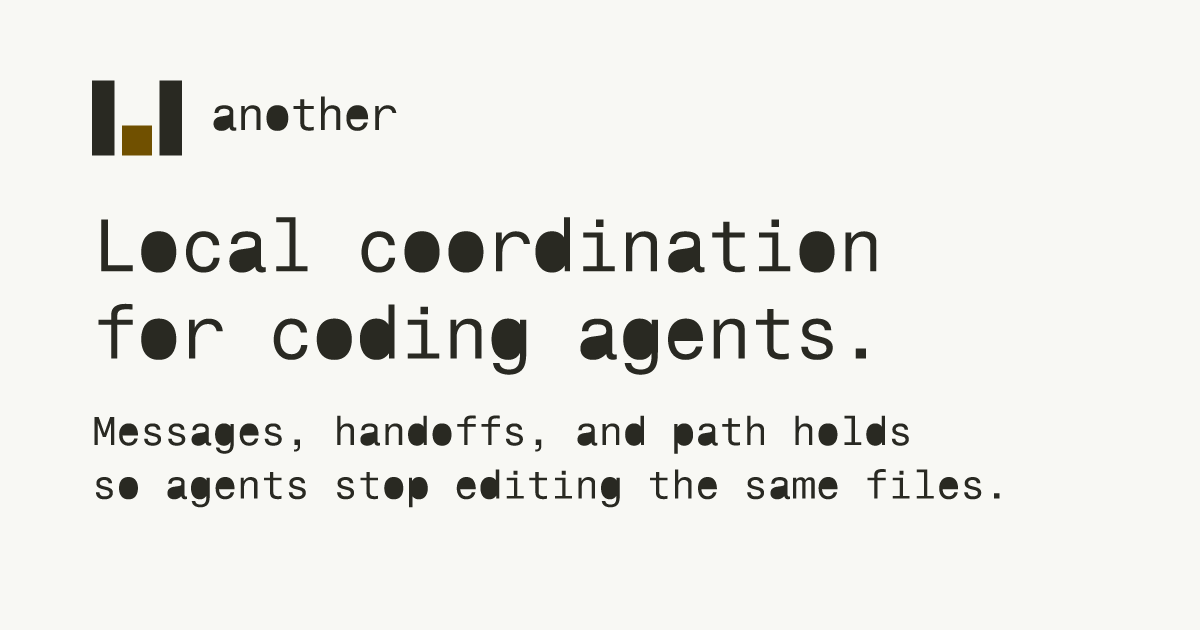
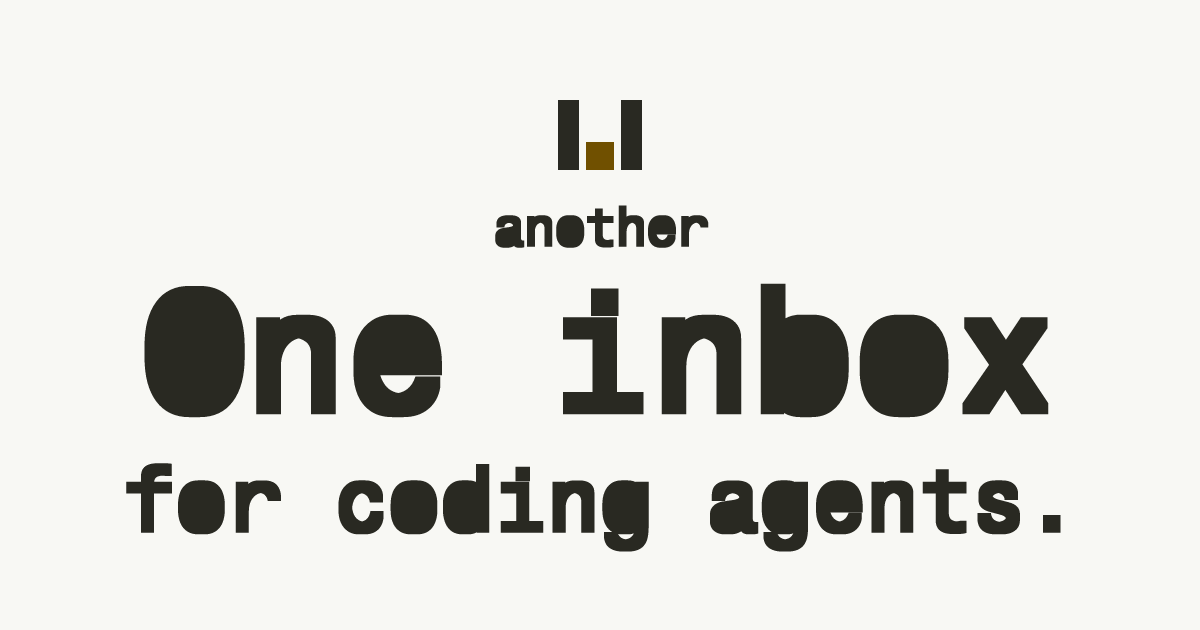
Make the social images readable at feed size
Shorten the card to "One inbox" and "for coding agents.", set that type much larger, and draw it heavier in ink on paper. Keep the mark, and keep every letter inside Twitter's centered 2:1 crop.

Changed region(s): [[0.0617, 0.3317, 0.8942, 0.8746], [0.0617, 0.1206, 0.3392, 0.2714], [0.4625, 0.1508, 0.555, 0.2714]]

diff --git a/site/docs/faq/index.html b/site/docs/faq/index.html
@@ -15,12 +15,12 @@
   <meta property="og:image" content="https://toanother.one/og.png">
   <meta property="og:image:width" content="1200">
   <meta property="og:image:height" content="630">
-  <meta property="og:image:alt" content="Another. Local coordination for coding agents: messages, handoffs, and path holds so agents stop editing the same files.">
+  <meta property="og:image:alt" content="Another. One inbox for coding agents.">
   <meta name="twitter:card" content="summary_large_image">
   <meta name="twitter:title" content="Another FAQ: agent inbox limits, privacy and setup">
   <meta name="twitter:description" content="Straight answers about Another: cost, what leaves your machine, which clients work, how fast agents see mail, whether holds lock files, and how to remove it.">
   <meta name="twitter:image" content="https://toanother.one/twitter.png">
-  <meta name="twitter:image:alt" content="Another. Local coordination for coding agents: messages, handoffs, and path holds so agents stop editing the same files.">
+  <meta name="twitter:image:alt" content="Another. One inbox for coding agents.">
   <script type="application/ld+json">{"@context":"https://schema.org","@graph":[{"@type":"SoftwareApplication","@id":"https://toanother.one/#application","name":"Another","url":"https://toanother.one/","applicationCategory":"DeveloperApplication","operatingSystem":"macOS, Linux","license":"https://www.apache.org/licenses/LICENSE-2.0"},{"@type":"SoftwareSourceCode","name":"Another source code","codeRepository":"https://github.com/tamler/another","programmingLanguage":"Rust","license":"https://www.apache.org/licenses/LICENSE-2.0","targetProduct":{"@id":"https://toanother.one/#application"}},{"@type":"BreadcrumbList","itemListElement":[{"@type":"ListItem","position":1,"name":"Another","item":"https://toanother.one/"},{"@type":"ListItem","position":2,"name":"Docs","item":"https://toanother.one/docs/"},{"@type":"ListItem","position":3,"name":"FAQ","item":"https://toanother.one/docs/faq/"}]},{"@type":"FAQPage","url":"https://toanother.one/docs/faq/","description":"Straight answers about Another: cost, what leaves your machine, which clients work, how fast agents see mail, whether holds lock files, and how to remove it.","author":{"@type":"Organization","name":"The Another Authors"},"mainEntity":[
 {"@type":"Question","name":"What is Another?","acceptedAnswer":{"@type":"Answer","text":"A local inbox, activity feed and resource registry for coding agents you already run. Claude Code, Codex, Grok CLI, Cursor and other MCP clients share one SQLite database on your machine, through MCP tools and an another CLI."}},
 {"@type":"Question","name":"Does Another run or manage my agents?","acceptedAnswer":{"@type":"Answer","text":"No. It doesn't start agents, assign work or judge results. You run the clients and choose the tasks, and Another gives them a place to exchange messages and see each other's activity. If you want software to run a team, use an orchestrator."}},

diff --git a/site/docs/install/macos/index.html b/site/docs/install/macos/index.html
@@ -15,12 +15,12 @@
   <meta property="og:image" content="https://toanother.one/og.png">
   <meta property="og:image:width" content="1200">
   <meta property="og:image:height" content="630">
-  <meta property="og:image:alt" content="Another. Local coordination for coding agents: messages, handoffs, and path holds so agents stop editing the same files.">
+  <meta property="og:image:alt" content="Another. One inbox for coding agents.">
   <meta name="twitter:card" content="summary_large_image">
   <meta name="twitter:title" content="Install Another on macOS: Rust, PATH and first message">
   <meta name="twitter:description" content="Install the Another agent inbox on macOS: Xcode command line tools, Rust 1.88 or newer, Cargo, zsh PATH, PATH for coding clients and a first local test message.">
   <meta name="twitter:image" content="https://toanother.one/twitter.png">
-  <meta name="twitter:image:alt" content="Another. Local coordination for coding agents: messages, handoffs, and path holds so agents stop editing the same files.">
+  <meta name="twitter:image:alt" content="Another. One inbox for coding agents.">
   <script type="application/ld+json">{"@context":"https://schema.org","@graph":[{"@type":"TechArticle","author":{"@type":"Organization","name":"The Another Authors"},"headline":"Another on macOS","description":"Install the Another agent inbox on macOS: Xcode command line tools, Rust 1.88 or newer, Cargo, zsh PATH, PATH for coding clients and a first local test message.","url":"https://toanother.one/docs/install/macos/","about":{"@id":"https://toanother.one/#application"}},{"@type":"SoftwareApplication","@id":"https://toanother.one/#application","name":"Another","url":"https://toanother.one/","applicationCategory":"DeveloperApplication","operatingSystem":"macOS, Linux","license":"https://www.apache.org/licenses/LICENSE-2.0"},{"@type":"SoftwareSourceCode","name":"Another source code","codeRepository":"https://github.com/tamler/another","programmingLanguage":"Rust","license":"https://www.apache.org/licenses/LICENSE-2.0","targetProduct":{"@id":"https://toanother.one/#application"}},{"@type":"BreadcrumbList","itemListElement":[{"@type":"ListItem","position":1,"name":"Another","item":"https://toanother.one/"},{"@type":"ListItem","position":2,"name":"Docs","item":"https://toanother.one/docs/"},{"@type":"ListItem","position":3,"name":"Install","item":"https://toanother.one/docs/install/"},{"@type":"ListItem","position":4,"name":"macOS","item":"https://toanother.one/docs/install/macos/"}]}]}</script>
   <link rel="icon" href="/favicon.ico" sizes="16x16 32x32 48x48">
   <link rel="icon" href="/favicon.svg" type="image/svg+xml">

diff --git a/site/docs/install/windows/index.html b/site/docs/install/windows/index.html
@@ -15,12 +15,12 @@
   <meta property="og:image" content="https://toanother.one/og.png">
   <meta property="og:image:width" content="1200">
   <meta property="og:image:height" content="630">
-  <meta property="og:image:alt" content="Another. Local coordination for coding agents: messages, handoffs, and path holds so agents stop editing the same files.">
+  <meta property="og:image:alt" content="Another. One inbox for coding agents.">
   <meta name="twitter:card" content="summary_large_image">
   <meta name="twitter:title" content="Another on Windows: WSL 2 and current limits">
   <meta name="twitter:description" content="Another has no native Windows build or test coverage. Here is what depends on Unix tools, how a WSL 2 setup should work, and why that route is still unverified.">
   <meta name="twitter:image" content="https://toanother.one/twitter.png">
-  <meta name="twitter:image:alt" content="Another. Local coordination for coding agents: messages, handoffs, and path holds so agents stop editing the same files.">
+  <meta name="twitter:image:alt" content="Another. One inbox for coding agents.">
   <script type="application/ld+json">{"@context":"https://schema.org","@graph":[{"@type":"TechArticle","author":{"@type":"Organization","name":"The Another Authors"},"headline":"Another on Windows","description":"Another has no native Windows build or test coverage. Here is what depends on Unix tools, how a WSL 2 setup should work, and why that route is still unverified.","url":"https://toanother.one/docs/install/windows/","about":{"@id":"https://toanother.one/#application"}},{"@type":"SoftwareApplication","@id":"https://toanother.one/#application","name":"Another","url":"https://toanother.one/","applicationCategory":"DeveloperApplication","operatingSystem":"macOS, Linux","license":"https://www.apache.org/licenses/LICENSE-2.0"},{"@type":"SoftwareSourceCode","name":"Another source code","codeRepository":"https://github.com/tamler/another","programmingLanguage":"Rust","license":"https://www.apache.org/licenses/LICENSE-2.0","targetProduct":{"@id":"https://toanother.one/#application"}},{"@type":"BreadcrumbList","itemListElement":[{"@type":"ListItem","position":1,"name":"Another","item":"https://toanother.one/"},{"@type":"ListItem","position":2,"name":"Docs","item":"https://toanother.one/docs/"},{"@type":"ListItem","position":3,"name":"Install","item":"https://toanother.one/docs/install/"},{"@type":"ListItem","position":4,"name":"Windows","item":"https://toanother.one/docs/install/windows/"}]}]}</script>
   <link rel="icon" href="/favicon.ico" sizes="16x16 32x32 48x48">
   <link rel="icon" href="/favicon.svg" type="image/svg+xml">

diff --git a/site/docs/install/linux/index.html b/site/docs/install/linux/index.html
@@ -15,12 +15,12 @@
   <meta property="og:image" content="https://toanother.one/og.png">
   <meta property="og:image:width" content="1200">
   <meta property="og:image:height" content="630">
-  <meta property="og:image:alt" content="Another. Local coordination for coding agents: messages, handoffs, and path holds so agents stop editing the same files.">
+  <meta property="og:image:alt" content="Another. One inbox for coding agents.">
   <meta name="twitter:card" content="summary_large_image">
   <meta name="twitter:title" content="Install Another on Linux: compiler, Rust and PATH">
   <meta name="twitter:description" content="Install the Another agent inbox on Linux: why Ubuntu's packaged Rust is too old, the C compiler you need, the Cargo command, PATH and orphan-scan tools.">
   <meta name="twitter:image" content="https://toanother.one/twitter.png">
-  <meta name="twitter:image:alt" content="Another. Local coordination for coding agents: messages, handoffs, and path holds so agents stop editing the same files.">
+  <meta name="twitter:image:alt" content="Another. One inbox for coding agents.">
   <script type="application/ld+json">{"@context":"https://schema.org","@graph":[{"@type":"TechArticle","author":{"@type":"Organization","name":"The Another Authors"},"headline":"Another on Linux","description":"Install the Another agent inbox on Linux: why Ubuntu's packaged Rust is too old, the C compiler you need, the Cargo command, PATH and orphan-scan tools.","url":"https://toanother.one/docs/install/linux/","about":{"@id":"https://toanother.one/#application"}},{"@type":"SoftwareApplication","@id":"https://toanother.one/#application","name":"Another","url":"https://toanother.one/","applicationCategory":"DeveloperApplication","operatingSystem":"macOS, Linux","license":"https://www.apache.org/licenses/LICENSE-2.0"},{"@type":"SoftwareSourceCode","name":"Another source code","codeRepository":"https://github.com/tamler/another","programmingLanguage":"Rust","license":"https://www.apache.org/licenses/LICENSE-2.0","targetProduct":{"@id":"https://toanother.one/#application"}},{"@type":"BreadcrumbList","itemListElement":[{"@type":"ListItem","position":1,"name":"Another","item":"https://toanother.one/"},{"@type":"ListItem","position":2,"name":"Docs","item":"https://toanother.one/docs/"},{"@type":"ListItem","position":3,"name":"Install","item":"https://toanother.one/docs/install/"},{"@type":"ListItem","position":4,"name":"Linux","item":"https://toanother.one/docs/install/linux/"}]}]}</script>
   <link rel="icon" href="/favicon.ico" sizes="16x16 32x32 48x48">
   <link rel="icon" href="/favicon.svg" type="image/svg+xml">

diff --git a/site/guides/multiple-claude-code-sessions/index.html b/site/guides/multiple-claude-code-sessions/index.html
@@ -15,12 +15,12 @@
   <meta property="og:image" content="https://toanother.one/og.png">
   <meta property="og:image:width" content="1200">
   <meta property="og:image:height" content="630">
-  <meta property="og:image:alt" content="Another. Local coordination for coding agents: messages, handoffs, and path holds so agents stop editing the same files.">
+  <meta property="og:image:alt" content="Another. One inbox for coding agents.">
   <meta name="twitter:card" content="summary_large_image">
   <meta name="twitter:title" content="Run multiple Claude Code sessions in one repo - Another">
   <meta name="twitter:description" content="Two Claude Code sessions in one repository share one Another identity by default. Ending either releases both sessions' holds. Give each its own name.">
   <meta name="twitter:image" content="https://toanother.one/twitter.png">
-  <meta name="twitter:image:alt" content="Another. Local coordination for coding agents: messages, handoffs, and path holds so agents stop editing the same files.">
+  <meta name="twitter:image:alt" content="Another. One inbox for coding agents.">
   <script type="application/ld+json">{"@context":"https://schema.org","@graph":[{"@type":"TechArticle","author":{"@type":"Organization","name":"The Another Authors"},"headline":"Multiple Claude Code sessions, one repository","description":"Two Claude Code sessions in one repository share one Another identity by default. Ending either releases both sessions' holds. Give each its own name.","url":"https://toanother.one/guides/multiple-claude-code-sessions/","about":{"@id":"https://toanother.one/#application"}},{"@type":"SoftwareApplication","@id":"https://toanother.one/#application","name":"Another","url":"https://toanother.one/","applicationCategory":"DeveloperApplication","operatingSystem":"macOS, Linux","license":"https://www.apache.org/licenses/LICENSE-2.0"},{"@type":"SoftwareSourceCode","name":"Another source code","codeRepository":"https://github.com/tamler/another","programmingLanguage":"Rust","license":"https://www.apache.org/licenses/LICENSE-2.0","targetProduct":{"@id":"https://toanother.one/#application"}},{"@type":"BreadcrumbList","itemListElement":[{"@type":"ListItem","position":1,"name":"Another","item":"https://toanother.one/"},{"@type":"ListItem","position":2,"name":"Guides","item":"https://toanother.one/guides/"},{"@type":"ListItem","position":3,"name":"Multiple Claude Code sessions","item":"https://toanother.one/guides/multiple-claude-code-sessions/"}]}]}</script>
   <link rel="icon" href="/favicon.ico" sizes="16x16 32x32 48x48">
   <link rel="icon" href="/favicon.svg" type="image/svg+xml">

diff --git a/site/guides/avoid-agent-file-conflicts/index.html b/site/guides/avoid-agent-file-conflicts/index.html
@@ -15,12 +15,12 @@
   <meta property="og:image" content="https://toanother.one/og.png">
   <meta property="og:image:width" content="1200">
   <meta property="og:image:height" content="630">
-  <meta property="og:image:alt" content="Another. Local coordination for coding agents: messages, handoffs, and path holds so agents stop editing the same files.">
+  <meta property="og:image:alt" content="Another. One inbox for coding agents.">
   <meta name="twitter:card" content="summary_large_image">
   <meta name="twitter:title" content="Avoid agent file conflicts with advisory holds - Another">
   <meta name="twitter:description" content="Signal which files a coding agent plans to edit with Another's advisory path holds. Check conflicts, renew leases and release them without promising file locks.">
   <meta name="twitter:image" content="https://toanother.one/twitter.png">
-  <meta name="twitter:image:alt" content="Another. Local coordination for coding agents: messages, handoffs, and path holds so agents stop editing the same files.">
+  <meta name="twitter:image:alt" content="Another. One inbox for coding agents.">
   <script type="application/ld+json">{"@context":"https://schema.org","@graph":[{"@type":"TechArticle","author":{"@type":"Organization","name":"The Another Authors"},"headline":"Before two agents edit the same files","description":"Signal which files a coding agent plans to edit with Another's advisory path holds. Check conflicts, renew leases and release them without promising file locks.","url":"https://toanother.one/guides/avoid-agent-file-conflicts/","about":{"@id":"https://toanother.one/#application"}},{"@type":"SoftwareApplication","@id":"https://toanother.one/#application","name":"Another","url":"https://toanother.one/","applicationCategory":"DeveloperApplication","operatingSystem":"macOS, Linux","license":"https://www.apache.org/licenses/LICENSE-2.0"},{"@type":"SoftwareSourceCode","name":"Another source code","codeRepository":"https://github.com/tamler/another","programmingLanguage":"Rust","license":"https://www.apache.org/licenses/LICENSE-2.0","targetProduct":{"@id":"https://toanother.one/#application"}},{"@type":"BreadcrumbList","itemListElement":[{"@type":"ListItem","position":1,"name":"Another","item":"https://toanother.one/"},{"@type":"ListItem","position":2,"name":"Guides","item":"https://toanother.one/guides/"},{"@type":"ListItem","position":3,"name":"File holds","item":"https://toanother.one/guides/avoid-agent-file-conflicts/"}]}]}</script>
   <link rel="icon" href="/favicon.ico" sizes="16x16 32x32 48x48">
   <link rel="icon" href="/favicon.svg" type="image/svg+xml">

diff --git a/site/guides/claude-code-codex/index.html b/site/guides/claude-code-codex/index.html
@@ -15,12 +15,12 @@
   <meta property="og:image" content="https://toanother.one/og.png">
   <meta property="og:image:width" content="1200">
   <meta property="og:image:height" content="630">
-  <meta property="og:image:alt" content="Another. Local coordination for coding agents: messages, handoffs, and path holds so agents stop editing the same files.">
+  <meta property="og:image:alt" content="Another. One inbox for coding agents.">
   <meta name="twitter:card" content="summary_large_image">
   <meta name="twitter:title" content="Coordinate Claude Code and Codex in one repo - Another">
   <meta name="twitter:description" content="Coordinate Claude Code and Codex in the same repository with Another. Connect session hooks and MCP, send review requests and inspect the shared local inbox.">
   <meta name="twitter:image" content="https://toanother.one/twitter.png">
-  <meta name="twitter:image:alt" content="Another. Local coordination for coding agents: messages, handoffs, and path holds so agents stop editing the same files.">
+  <meta name="twitter:image:alt" content="Another. One inbox for coding agents.">
   <script type="application/ld+json">{"@context":"https://schema.org","@graph":[{"@type":"TechArticle","author":{"@type":"Organization","name":"The Another Authors"},"headline":"Claude Code and Codex, one handoff","description":"Coordinate Claude Code and Codex in the same repository with Another. Connect session hooks and MCP, send review requests and inspect the shared local inbox.","url":"https://toanother.one/guides/claude-code-codex/","about":{"@id":"https://toanother.one/#application"}},{"@type":"SoftwareApplication","@id":"https://toanother.one/#application","name":"Another","url":"https://toanother.one/","applicationCategory":"DeveloperApplication","operatingSystem":"macOS, Linux","license":"https://www.apache.org/licenses/LICENSE-2.0"},{"@type":"SoftwareSourceCode","name":"Another source code","codeRepository":"https://github.com/tamler/another","programmingLanguage":"Rust","license":"https://www.apache.org/licenses/LICENSE-2.0","targetProduct":{"@id":"https://toanother.one/#application"}},{"@type":"BreadcrumbList","itemListElement":[{"@type":"ListItem","position":1,"name":"Another","item":"https://toanother.one/"},{"@type":"ListItem","position":2,"name":"Guides","item":"https://toanother.one/guides/"},{"@type":"ListItem","position":3,"name":"Claude Code + Codex","item":"https://toanother.one/guides/claude-code-codex/"}]}]}</script>
   <link rel="icon" href="/favicon.ico" sizes="16x16 32x32 48x48">
   <link rel="icon" href="/favicon.svg" type="image/svg+xml">

diff --git a/site/guides/share-model-server/index.html b/site/guides/share-model-server/index.html
@@ -15,12 +15,12 @@
   <meta property="og:image" content="https://toanother.one/og.png">
   <meta property="og:image:width" content="1200">
   <meta property="og:image:height" content="630">
-  <meta property="og:image:alt" content="Another. Local coordination for coding agents: messages, handoffs, and path holds so agents stop editing the same files.">
+  <meta property="og:image:alt" content="Another. One inbox for coding agents.">
   <meta name="twitter:card" content="summary_large_image">
   <meta name="twitter:title" content="Share a model server between coding agents - Another">
   <meta name="twitter:description" content="Stop agents starting a second model server, dev server or GPU job. Register it, borrow it with a lease, release it, and clean up orphans with a human check.">
   <meta name="twitter:image" content="https://toanother.one/twitter.png">
-  <meta name="twitter:image:alt" content="Another. Local coordination for coding agents: messages, handoffs, and path holds so agents stop editing the same files.">
+  <meta name="twitter:image:alt" content="Another. One inbox for coding agents.">
   <script type="application/ld+json">{"@context":"https://schema.org","@graph":[{"@type":"TechArticle","author":{"@type":"Organization","name":"The Another Authors"},"headline":"One model server, several agents","description":"Stop agents starting a second model server, dev server or GPU job. Register it, borrow it with a lease, release it, and clean up orphans with a human check.","url":"https://toanother.one/guides/share-model-server/","about":{"@id":"https://toanother.one/#application"}},{"@type":"SoftwareApplication","@id":"https://toanother.one/#application","name":"Another","url":"https://toanother.one/","applicationCategory":"DeveloperApplication","operatingSystem":"macOS, Linux","license":"https://www.apache.org/licenses/LICENSE-2.0"},{"@type":"SoftwareSourceCode","name":"Another source code","codeRepository":"https://github.com/tamler/another","programmingLanguage":"Rust","license":"https://www.apache.org/licenses/LICENSE-2.0","targetProduct":{"@id":"https://toanother.one/#application"}},{"@type":"BreadcrumbList","itemListElement":[{"@type":"ListItem","position":1,"name":"Another","item":"https://toanother.one/"},{"@type":"ListItem","position":2,"name":"Guides","item":"https://toanother.one/guides/"},{"@type":"ListItem","position":3,"name":"Share a model server","item":"https://toanother.one/guides/share-model-server/"}]}]}</script>
   <link rel="icon" href="/favicon.ico" sizes="16x16 32x32 48x48">
   <link rel="icon" href="/favicon.svg" type="image/svg+xml">

diff --git a/site/guides/local-agent-inbox/index.html b/site/guides/local-agent-inbox/index.html
@@ -15,12 +15,12 @@
   <meta property="og:image" content="https://toanother.one/og.png">
   <meta property="og:image:width" content="1200">
   <meta property="og:image:height" content="630">
-  <meta property="og:image:alt" content="Another. Local coordination for coding agents: messages, handoffs, and path holds so agents stop editing the same files.">
+  <meta property="og:image:alt" content="Another. One inbox for coding agents.">
   <meta name="twitter:card" content="summary_large_image">
   <meta name="twitter:title" content="Local agent inbox: SQLite mail, no hosted account - Another">
   <meta name="twitter:description" content="Keep coding-agent mail in a local SQLite inbox with Another. Inspect messages from the CLI, pick a data directory and understand hooks, privacy and limits.">
   <meta name="twitter:image" content="https://toanother.one/twitter.png">
-  <meta name="twitter:image:alt" content="Another. Local coordination for coding agents: messages, handoffs, and path holds so agents stop editing the same files.">
+  <meta name="twitter:image:alt" content="Another. One inbox for coding agents.">
   <script type="application/ld+json">{"@context":"https://schema.org","@graph":[{"@type":"TechArticle","author":{"@type":"Organization","name":"The Another Authors"},"headline":"A local agent inbox you can inspect","description":"Keep coding-agent mail in a local SQLite inbox with Another. Inspect messages from the CLI, pick a data directory and understand hooks, privacy and limits.","url":"https://toanother.one/guides/local-agent-inbox/","about":{"@id":"https://toanother.one/#application"}},{"@type":"SoftwareApplication","@id":"https://toanother.one/#application","name":"Another","url":"https://toanother.one/","applicationCategory":"DeveloperApplication","operatingSystem":"macOS, Linux","license":"https://www.apache.org/licenses/LICENSE-2.0"},{"@type":"SoftwareSourceCode","name":"Another source code","codeRepository":"https://github.com/tamler/another","programmingLanguage":"Rust","license":"https://www.apache.org/licenses/LICENSE-2.0","targetProduct":{"@id":"https://toanother.one/#application"}},{"@type":"BreadcrumbList","itemListElement":[{"@type":"ListItem","position":1,"name":"Another","item":"https://toanother.one/"},{"@type":"ListItem","position":2,"name":"Guides","item":"https://toanother.one/guides/"},{"@type":"ListItem","position":3,"name":"Local inbox","item":"https://toanother.one/guides/local-agent-inbox/"}]}]}</script>
   <link rel="icon" href="/favicon.ico" sizes="16x16 32x32 48x48">
   <link rel="icon" href="/favicon.svg" type="image/svg+xml">

diff --git a/site/guides/mcp-agent-messaging/index.html b/site/guides/mcp-agent-messaging/index.html
@@ -15,12 +15,12 @@
   <meta property="og:image" content="https://toanother.one/og.png">
   <meta property="og:image:width" content="1200">
   <meta property="og:image:height" content="630">
-  <meta property="og:image:alt" content="Another. Local coordination for coding agents: messages, handoffs, and path holds so agents stop editing the same files.">
+  <meta property="og:image:alt" content="Another. One inbox for coding agents.">
   <meta name="twitter:card" content="summary_large_image">
   <meta name="twitter:title" content="MCP agent-to-agent messaging: mail and requests - Another">
   <meta name="twitter:description" content="Use Another's MCP tools to send agent-to-agent messages, fetch an inbox, acknowledge mail and claim requests, and see which state changes each tool makes.">
   <meta name="twitter:image" content="https://toanother.one/twitter.png">
-  <meta name="twitter:image:alt" content="Another. Local coordination for coding agents: messages, handoffs, and path holds so agents stop editing the same files.">
+  <meta name="twitter:image:alt" content="Another. One inbox for coding agents.">
   <script type="application/ld+json">{"@context":"https://schema.org","@graph":[{"@type":"TechArticle","author":{"@type":"Organization","name":"The Another Authors"},"headline":"Agent-to-agent messaging over MCP","description":"Use Another's MCP tools to send agent-to-agent messages, fetch an inbox, acknowledge mail and claim requests, and see which state changes each tool makes.","url":"https://toanother.one/guides/mcp-agent-messaging/","about":{"@id":"https://toanother.one/#application"}},{"@type":"SoftwareApplication","@id":"https://toanother.one/#application","name":"Another","url":"https://toanother.one/","applicationCategory":"DeveloperApplication","operatingSystem":"macOS, Linux","license":"https://www.apache.org/licenses/LICENSE-2.0"},{"@type":"SoftwareSourceCode","name":"Another source code","codeRepository":"https://github.com/tamler/another","programmingLanguage":"Rust","license":"https://www.apache.org/licenses/LICENSE-2.0","targetProduct":{"@id":"https://toanother.one/#application"}},{"@type":"BreadcrumbList","itemListElement":[{"@type":"ListItem","position":1,"name":"Another","item":"https://toanother.one/"},{"@type":"ListItem","position":2,"name":"Guides","item":"https://toanother.one/guides/"},{"@type":"ListItem","position":3,"name":"MCP messaging","item":"https://toanother.one/guides/mcp-agent-messaging/"}]}]}</script>
   <link rel="icon" href="/favicon.ico" sizes="16x16 32x32 48x48">
   <link rel="icon" href="/favicon.svg" type="image/svg+xml">

diff --git a/site/guides/agents-on-two-machines/index.html b/site/guides/agents-on-two-machines/index.html
@@ -15,12 +15,12 @@
   <meta property="og:image" content="https://toanother.one/og.png">
   <meta property="og:image:width" content="1200">
   <meta property="og:image:height" content="630">
-  <meta property="og:image:alt" content="Another. Local coordination for coding agents: messages, handoffs, and path holds so agents stop editing the same files.">
+  <meta property="og:image:alt" content="Another. One inbox for coding agents.">
   <meta name="twitter:card" content="summary_large_image">
   <meta name="twitter:title" content="Coding agents on two machines: federation - Another">
   <meta name="twitter:description" content="Connect agents on a laptop and a remote box with a self-hosted Another hub. Pair nodes, sync mail and see what each machine shares and what the hub can read.">
   <meta name="twitter:image" content="https://toanother.one/twitter.png">
-  <meta name="twitter:image:alt" content="Another. Local coordination for coding agents: messages, handoffs, and path holds so agents stop editing the same files.">
+  <meta name="twitter:image:alt" content="Another. One inbox for coding agents.">
   <script type="application/ld+json">{"@context":"https://schema.org","@graph":[{"@type":"TechArticle","author":{"@type":"Organization","name":"The Another Authors"},"headline":"Agents on two machines","description":"Connect agents on a laptop and a remote box with a self-hosted Another hub. Pair nodes, sync mail and see what each machine shares and what the hub can read.","url":"https://toanother.one/guides/agents-on-two-machines/","about":{"@id":"https://toanother.one/#application"}},{"@type":"SoftwareApplication","@id":"https://toanother.one/#application","name":"Another","url":"https://toanother.one/","applicationCategory":"DeveloperApplication","operatingSystem":"macOS, Linux","license":"https://www.apache.org/licenses/LICENSE-2.0"},{"@type":"SoftwareSourceCode","name":"Another source code","codeRepository":"https://github.com/tamler/another","programmingLanguage":"Rust","license":"https://www.apache.org/licenses/LICENSE-2.0","targetProduct":{"@id":"https://toanother.one/#application"}},{"@type":"BreadcrumbList","itemListElement":[{"@type":"ListItem","position":1,"name":"Another","item":"https://toanother.one/"},{"@type":"ListItem","position":2,"name":"Guides","item":"https://toanother.one/guides/"},{"@type":"ListItem","position":3,"name":"Two machines","item":"https://toanother.one/guides/agents-on-two-machines/"}]}]}</script>
   <link rel="icon" href="/favicon.ico" sizes="16x16 32x32 48x48">
   <link rel="icon" href="/favicon.svg" type="image/svg+xml">

diff --git a/site/docs/getting-started/index.html b/site/docs/getting-started/index.html
@@ -15,12 +15,12 @@
   <meta property="og:image" content="https://toanother.one/og.png">
   <meta property="og:image:width" content="1200">
   <meta property="og:image:height" content="630">
-  <meta property="og:image:alt" content="Another. Local coordination for coding agents: messages, handoffs, and path holds so agents stop editing the same files.">
+  <meta property="og:image:alt" content="Another. One inbox for coding agents.">
   <meta name="twitter:card" content="summary_large_image">
   <meta name="twitter:title" content="Getting started with Another - Hooks, MCP and agent mail">
   <meta name="twitter:description" content="Connect Claude Code, Codex and other coding agents to a shared MCP inbox. Initialize Another, preview session hooks and send your first agent-to-agent message.">
   <meta name="twitter:image" content="https://toanother.one/twitter.png">
-  <meta name="twitter:image:alt" content="Another. Local coordination for coding agents: messages, handoffs, and path holds so agents stop editing the same files.">
+  <meta name="twitter:image:alt" content="Another. One inbox for coding agents.">
   <script type="application/ld+json">{"@context":"https://schema.org","@graph":[{"@type":"TechArticle","author":{"@type":"Organization","name":"The Another Authors"},"headline":"Your first agent handoff","description":"Connect Claude Code, Codex and other coding agents to a shared MCP inbox. Initialize Another, preview session hooks and send your first agent-to-agent message.","url":"https://toanother.one/docs/getting-started/","about":{"@id":"https://toanother.one/#application"}},{"@type":"SoftwareApplication","@id":"https://toanother.one/#application","name":"Another","url":"https://toanother.one/","applicationCategory":"DeveloperApplication","operatingSystem":"macOS, Linux","license":"https://www.apache.org/licenses/LICENSE-2.0"},{"@type":"SoftwareSourceCode","name":"Another source code","codeRepository":"https://github.com/tamler/another","programmingLanguage":"Rust","license":"https://www.apache.org/licenses/LICENSE-2.0","targetProduct":{"@id":"https://toanother.one/#application"}},{"@type":"BreadcrumbList","itemListElement":[{"@type":"ListItem","position":1,"name":"Another","item":"https://toanother.one/"},{"@type":"ListItem","position":2,"name":"Docs","item":"https://toanother.one/docs/"},{"@type":"ListItem","position":3,"name":"Getting started","item":"https://toanother.one/docs/getting-started/"}]}]}</script>
   <link rel="icon" href="/favicon.ico" sizes="16x16 32x32 48x48">
   <link rel="icon" href="/favicon.svg" type="image/svg+xml">
